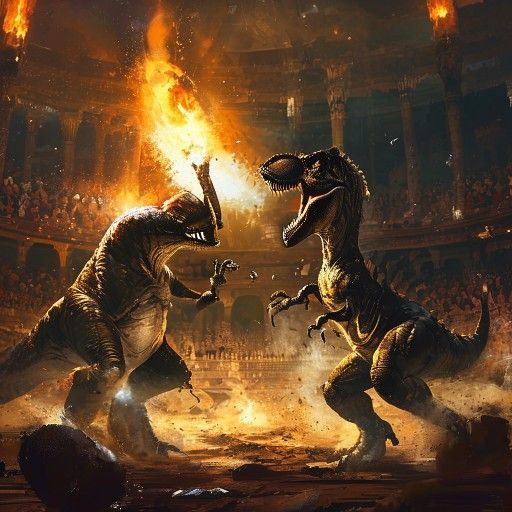
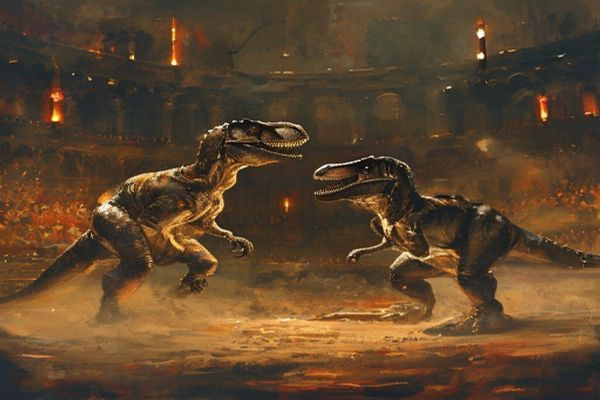
Login: smaller landscape battle image, better composition

diff --git a/app/login/page.tsx b/app/login/page.tsx
@@ -37,9 +37,9 @@ export default function LoginPage() {
     <div className="min-h-screen flex flex-col items-center justify-center px-4"
       style={{ background: 'radial-gradient(ellipse at 50% 60%, #1e0e00 0%, #0a0906 70%)' }}>
       <div className="text-center max-w-md w-full">
-        <div className="mb-6 mx-auto" style={{ width: 220, height: 220 }}>
+        <div className="mb-5 mx-auto" style={{ width: '100%', maxWidth: 360 }}>
           <img src="/images/login-battle.png" alt="Two dinosaurs battling in the arena"
-            style={{ width: '100%', height: '100%', objectFit: 'cover', borderRadius: '50%', border: '3px solid #5a4028', boxShadow: '0 0 32px rgba(212,120,20,0.35), 0 4px 16px rgba(0,0,0,0.9)' }} />
+            style={{ width: '100%', height: 'auto', borderRadius: '6px', border: '2px solid #5a4028', boxShadow: '0 0 24px rgba(212,120,20,0.2), 0 4px 16px rgba(0,0,0,0.9)' }} />
         </div>
 
         <h1 className="game-logo text-5xl mb-2 leading-tight">
